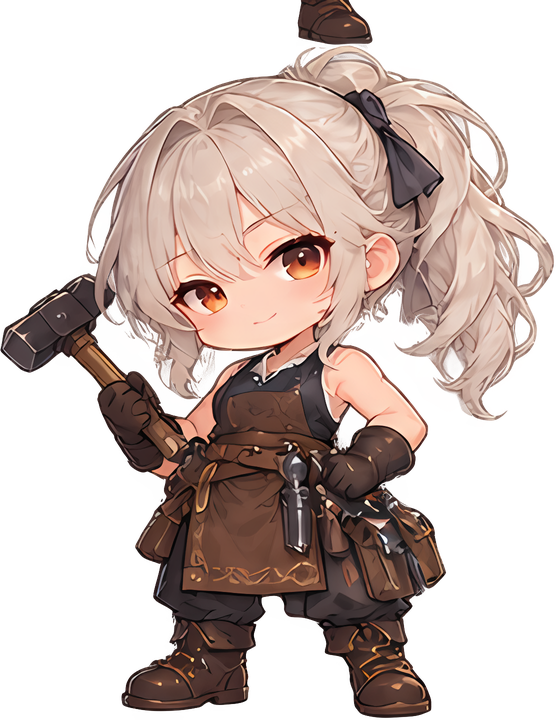
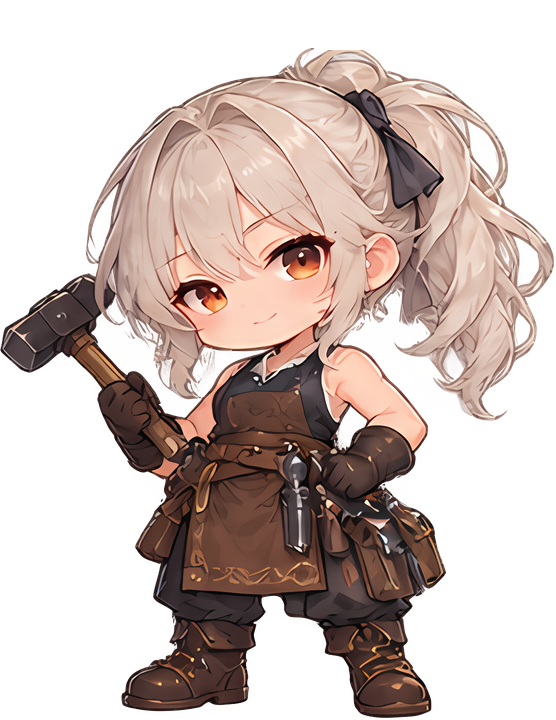
assets: 고해상도 NPC(토비 등 5명) 머리 위 구두 조각 제거
Claude-Session: https://claude.ai/code/session_0142wfqej6pvXn73UYuGENwD

Changed region(s): [[0.5198, 0.0, 0.6727, 0.0917]]

diff --git a/docs/WORKLOG.md b/docs/WORKLOG.md
@@ -1836,3 +1836,10 @@
 - 한 일: 브랜치 푸시(`9de8dfa`) 후, 인터넷 판은 main `gaia/town.html`만 교체하는 방식(이전 gaia_final14와 같은 절차)으로 `0b501b0`(gaia_final15, 버전 표시 1105-0846)을 올림. 바뀐 파일은 gaia/town.html 하나(그림 묶음 파일은 해시가 같아 그대로).
 - 되돌리기: main 에서 `0b501b0` 되돌리면 이전 판(4bf8e6c). 소스 쪽은 `USE_MOTION_PACK=False` 후 재빌드.
 - 남은 일: 케인이 실기기에서 새 걷기·공격이 어울리는지 보고 결정. 이 일지 커밋은 로컬(다음 푸시 때 함께).
+
+## 2026-11-05 18:45 (작성: Claude, 토비 머리 위 구두 — 고해상도 그림까지 제거)
+- 케인이 말한 것: 아까 고쳤다던 여관주인(토비) 머리 위 구두가 게임에서 그대로라고 지적.
+- 원인: 앞선 보정(17:xx, ③ NPC 잔여물)은 `assets/npc/`(저해상도)만 고쳤는데, 빌드는 `assets/npc_hd/`가 있으면 그쪽을 먼저 쓴다(`build.py` 543·576줄). 그래서 게임에는 반영되지 않았다.
+- 한 일: `assets/npc_hd/npc_05(토비)·22·23·24·42.png`에서, 이미 정리된 저해상도 그림의 모양(2배 확대 후 4px 여유)을 벗어난 위쪽 조각(구두)과 바닥 가장자리 부스러기를 지움(몸통 중간은 건드리지 않음 — 중간에 벗어난 픽셀 0 확인). 19번은 25픽셀(가장자리)뿐이라 두지 않음. 원본은 /tmp/npc_hd_bak(저장소 밖). 전후 비교 그림으로 머리카락 손상 없음 확인.
+- 아직 안 한 일: 이 그림이 게임에 보이려면 빌드(약 8분)와 인터넷 판 교체 필요. 다른 수정(T2 수치, 피격음 앞 무음 등)과 모아서 한 번에 하기로 케인에게 물음.
+- 다음에 NPC 그림을 새로 만들면 `npc/`와 `npc_hd/` 둘 다, 맨 윗줄 잔여물을 확인할 것.
